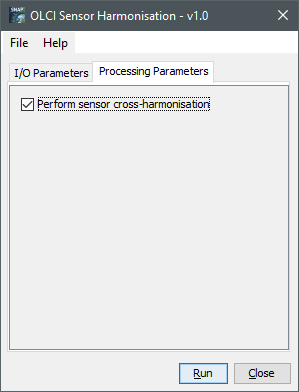
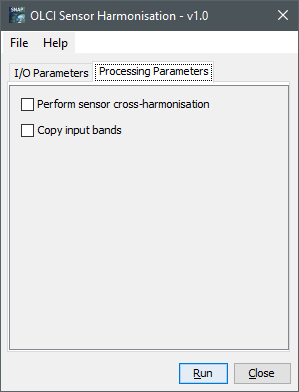
updated docs

Changed region(s): [[0.0602, 0.3061, 0.4214, 0.3673], [0.0602, 0.2449, 0.1204, 0.2755]]

diff --git a/s3tbx-olci-harmonisation/src/main/javahelp/org/esa/s3tbx/s3tbx/olci/harmonisation/docs/harmonisation/OlciSensorHarmonisationProcessorDescription.html b/s3tbx-olci-harmonisation/src/main/javahelp/org/esa/s3tbx/s3tbx/olci/harmonisation/docs/harmonisation/OlciSensorHarmonisationProcessorDescription.html
@@ -81,6 +81,11 @@
     If set to true, the sensor cross harmonisation is executed. I.e. the processor runs a flat-fielding operation followed
     by the linear regression calculation on the detector sensitivities. The parameters for this process are detected
     automatically from the input sensor type.
+
+    <b>Copy input bands: </b><br>
+    If set to true, the processor copies all bands, i.e. all datasets of full raster resolution to the output product. This
+    excludes the original radiance bands and all bands that have been extrapolated to full resolution from
+    the metadata.
 </p>
 
 <h3>The Processor Output</h3>

diff --git a/s3tbx-olci-harmonisation/src/main/javahelp/org/esa/s3tbx/s3tbx/olci/harmonisation/docs/harmonisation/OlciSensorHarmonisationCommandLine.html b/s3tbx-olci-harmonisation/src/main/javahelp/org/esa/s3tbx/s3tbx/olci/harmonisation/docs/harmonisation/OlciSensorHarmonisationCommandLine.html
@@ -83,6 +83,7 @@ to explicitly set parameters if default values shall be used).
             &lt;/sources&gt;
             &lt;parameters&gt;
                 &lt;performSensorCrossHarmonisation>true&lt;/performSensorCrossHarmonisation&gt;
+                <copyInputBands>false</copyInputBands>
             &lt;/parameters&gt;
         &lt;/node&gt;
     &lt;/graph&gt;

diff --git a/s3tbx-olci-harmonisation/src/main/java/org/esa/s3tbx/olci/sensor/harmonisation/OlciSensorHarmonisationOp.java b/s3tbx-olci-harmonisation/src/main/java/org/esa/s3tbx/olci/sensor/harmonisation/OlciSensorHarmonisationOp.java
@@ -144,12 +144,13 @@ public class OlciSensorHarmonisationOp extends Operator {
 
                 ProductUtils.copyBand(inputBandName, input, outputProduct, true);
             }
+
+            ProductUtils.copyFlagCodings(input, outputProduct);
         }
 
         ProductUtils.copyTiePointGrids(input, outputProduct);
         ProductUtils.copyGeoCoding(input, outputProduct);
         ProductUtils.copyMetadata(input, outputProduct);
-        ProductUtils.copyFlagCodings(input, outputProduct);
 
         return outputProduct;
     }
